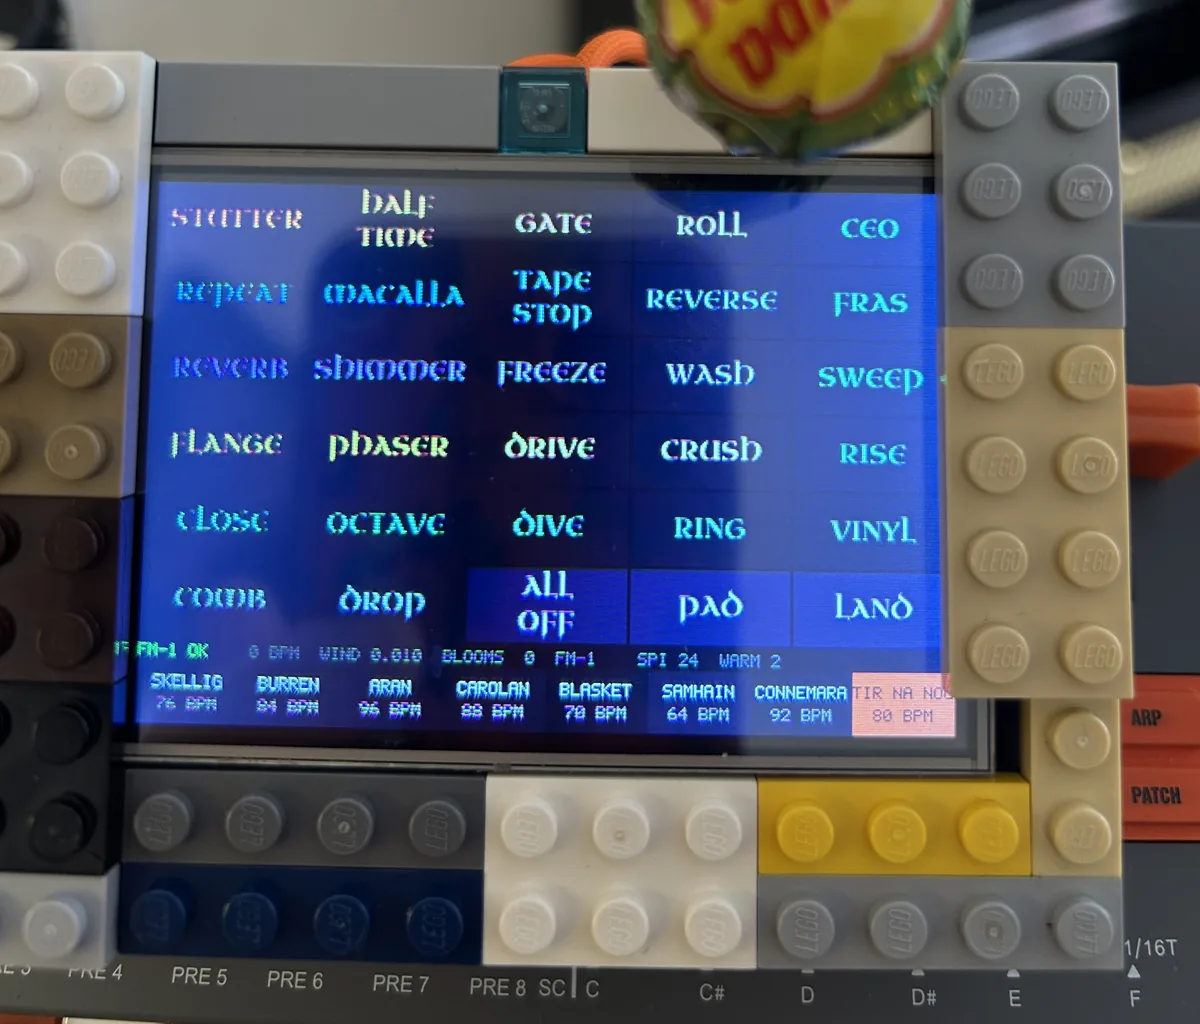
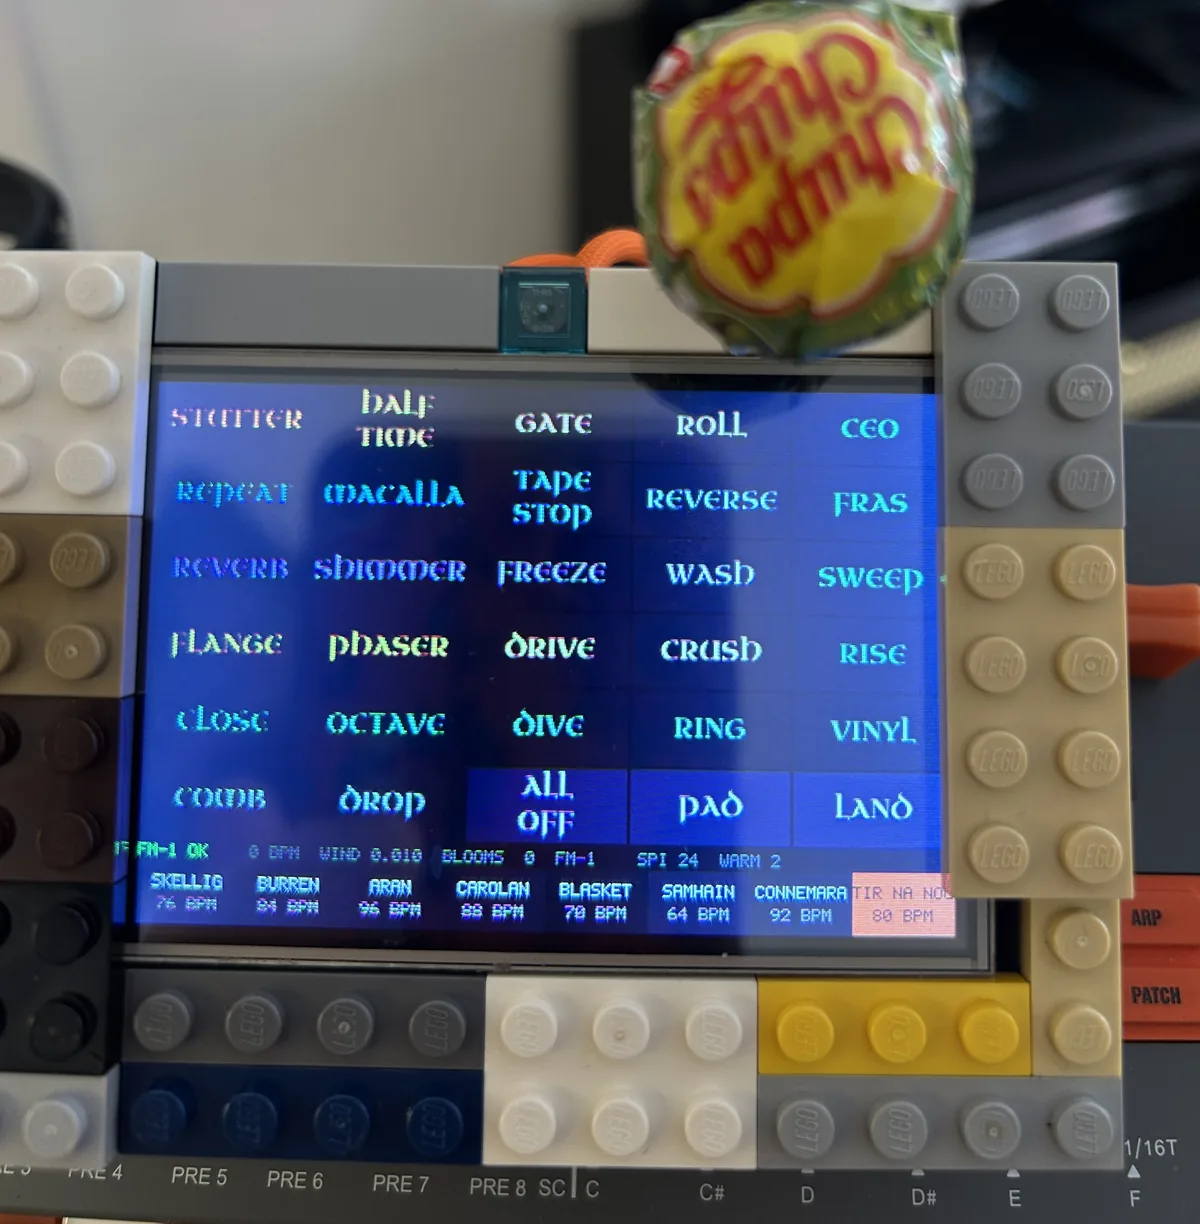
VOXBOX tray photo: show the lollipop and say what it is for

diff --git a/web/screen/index.html b/web/screen/index.html
@@ -346,7 +346,7 @@ pre.line { margin: 0 0 10px; padding: 10px 12px; overflow-x: auto; border: 1px s
 <figure><img src="img/lego/studio.webp" width="1400" height="1104" loading="lazy" alt="Studio's window with the tray in it, seen from above and behind: a black rim of plates on dark grey walls, the light grey floor inside, three orange pillars and the orange stop, the cable gap open at the near side"><figcaption>The same file open in Studio 2.26: the black rim, the three pillars and the stop in orange, the cable gap nearest.</figcaption></figure>
 <h3 class="sub" style="margin-top:22px">5. Then real bricks</h3>
 <p>The prototype of 15 November sent two things back. Its foot stopped a stud short of the left edge, so a tall Brick 1 × 2 × 2 went in there, and into the script. And in the tray a brick covered the right end of the strip along the bottom of the screen; that was put right in the screen's program, in a later build than the ones on this page, not in the bricks.</p>
-<figure><img src="img/lego/prototype-front.webp" width="1200" height="1024" loading="lazy" alt="The screen sitting in a tray of mixed white, grey, tan, yellow and black Lego, showing the effects page; the strip of tune names along the bottom ends just clear of the bricks on the right"><figcaption>The tray in real bricks, 16 November, in whatever colours were to hand. The strip along the bottom now ends just clear of the bricks on the right.</figcaption></figure>
+<figure><img src="img/lego/prototype-front.webp" width="1200" height="1224" loading="lazy" alt="The screen sitting in a tray of mixed white, grey, tan, yellow and black Lego, showing the effects page, with a wrapped lollipop resting on the top edge; the strip of tune names along the bottom ends just clear of the bricks on the right"><figcaption>The tray in real bricks, 16 November, in whatever colours were to hand. The strip along the bottom now ends just clear of the bricks on the right. The lollipop is for pressing the touch screen: its round top makes it easy to hold.</figcaption></figure>
 </div>
 </div>
 <h3 class="sub">What the script checks</h3>
